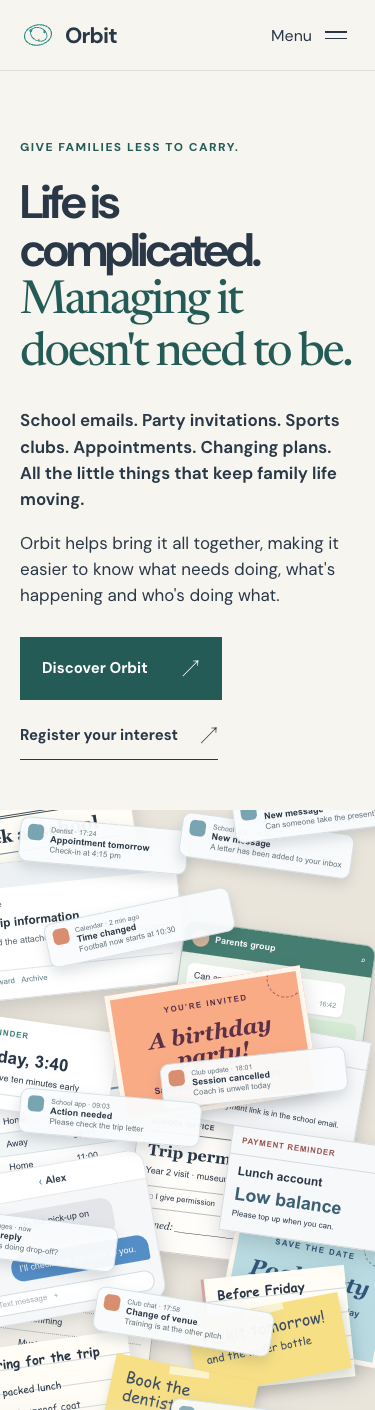
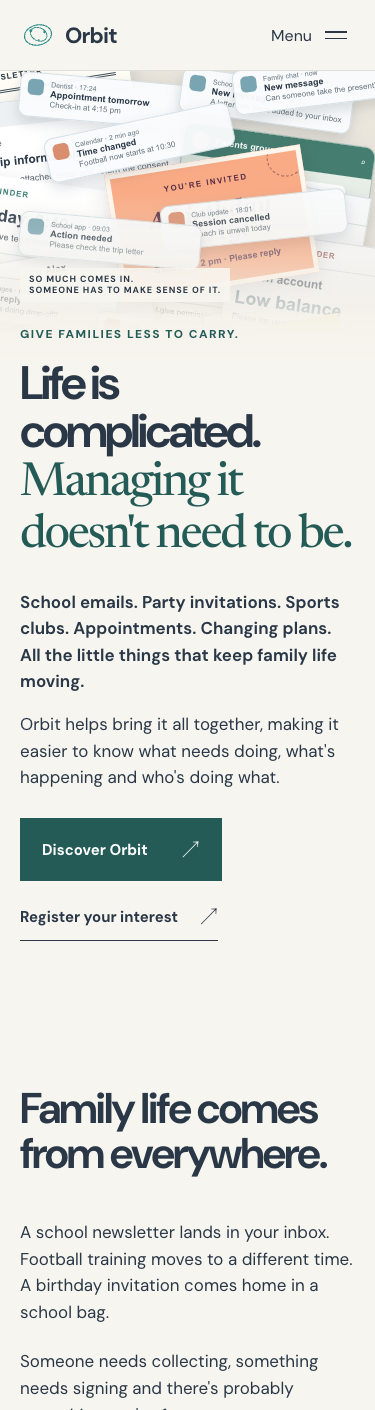
Direct hero from complexity to clarity

diff --git a/src/styles.css b/src/styles.css
@@ -25,3 +25,39 @@
 .incoming-hand{background:#f6df85;padding:12px 14px 17px;min-height:77px;box-shadow:2px 8px 12px #33433e30;font-family:'Comic Sans MS','Bradley Hand',cursive;color:#3c4d65}.incoming-hand:before{content:'';position:absolute;top:0;left:38%;width:40px;height:8px;background:#fff9;transform:rotate(-5deg)}.incoming-hand strong{font-size:16px;font-weight:500;line-height:1.1;margin-bottom:5px}.incoming-hand span{font-size:11px}.incoming-list{background:repeating-linear-gradient(#fffdf6 0 22px,#ced9db 23px,#fffdf6 24px);border-left:3px solid #d5a4a2;padding:9px 12px 12px;min-height:112px;font-family:'Comic Sans MS','Bradley Hand',cursive}.incoming-list strong{font-size:13px;margin-bottom:7px}.incoming-list span{font-size:10px;line-height:22px}.incoming-club{background:#f1f5f1;border:1px solid #bbcec1;padding:0 11px 11px}.club-head{margin:0 -11px 8px;background:#668f75;color:#fff;padding:5px 10px;font-weight:800;font-size:9px;letter-spacing:.1em}.incoming-club strong{font-size:12px;margin-bottom:4px}.incoming-club p{font-size:9px}.incoming-club small{display:block;border-top:1px solid #cddbd0;margin-top:8px;padding-top:5px;color:#73847a}
 .hero-art-caption{z-index:30;background:rgba(234,229,219,.92);padding:6px 9px;left:20px;bottom:17px}
 @media(max-width:600px){.hero-art{min-height:680px}.incoming{left:var(--mx);top:var(--my);width:var(--mw);transform:rotate(var(--mr))}.incoming.mobile-hide{display:none}.incoming-newsletter{min-height:165px}.incoming-newsletter strong{font-size:18px}.incoming-invite{min-height:129px}.incoming-invite strong{font-size:22px}.incoming-chat{font-size:9px}.incoming-notification{padding:6px 7px;min-height:44px}.hero-art-caption{z-index:30}}
+
+/* Complexity enters from the left and thins into the clear proposition. */
+@media(min-width:851px){
+  .hero{position:relative;isolation:isolate;grid-template-columns:1fr 1fr;min-height:730px}
+  .hero-copy{grid-column:2;padding:clamp(76px,9vw,136px) 0 90px 20px;z-index:2}
+  .hero-art{position:absolute;inset:0 auto 0 calc((min(100vw - 96px,var(--max)) - 100vw)/2);width:78%;min-height:0;margin:0;background:transparent;overflow:visible;pointer-events:none;z-index:1}
+  .hero-art:before{content:'';position:absolute;inset:0;background:radial-gradient(ellipse at 16% 44%,#eae5db 0%,rgba(234,229,219,.73) 38%,transparent 75%);pointer-events:none}
+  .hero-art:after{display:none}
+  .incoming-collage{overflow:visible;mask-image:linear-gradient(to right,#000 0%,#000 42%,rgba(0,0,0,.55) 53%,rgba(0,0,0,.1) 65%,transparent 72%)}
+  .incoming-taper{position:absolute;inset:0;pointer-events:none}
+  .incoming-taper-top{left:67%;top:3%;width:175px;transform:rotate(6deg);opacity:.85}
+  .incoming-taper-bottom{left:54%;top:86%;width:145px;transform:rotate(-8deg);opacity:.75}
+  .hero-art-caption{background:rgba(247,245,239,.9);left:18px;bottom:21px;z-index:20}
+}
+/* The same incoming material resolves vertically on narrow screens. */
+@media(max-width:850px){
+  .hero{display:flex;flex-direction:column;position:relative;isolation:isolate}
+  .hero-art{order:-1;position:relative;height:270px;min-height:0;margin-inline:-32px;background:transparent;overflow-x:clip;overflow-y:visible;pointer-events:none;z-index:1}
+  .hero-art:before{content:'';position:absolute;inset:-20px 0 -70px;background:linear-gradient(#eae5db 0%,rgba(234,229,219,.8) 58%,transparent 100%);pointer-events:none}
+  .hero-art:after{display:none}
+  .incoming-collage{height:390px;overflow:visible;mask-image:linear-gradient(to bottom,#000 0%,#000 34%,rgba(0,0,0,.7) 52%,transparent 77%)}
+  .incoming-taper{display:none}
+  .incoming{left:var(--mx);top:var(--my);width:var(--mw);transform:rotate(var(--mr))}
+  .incoming.mobile-hide{display:none}
+  .hero-copy{position:relative;z-index:2;padding:11px 0 60px}
+  .hero-copy:before{content:'';position:absolute;inset:0 -20px auto;height:230px;background:linear-gradient(to bottom,rgba(247,245,239,.45),var(--ivory) 82%);z-index:-1;pointer-events:none}
+  .hero-art-caption{background:rgba(247,245,239,.9);left:32px;bottom:9px;z-index:30}
+}
+@media(max-width:600px){
+  .hero-art{height:235px;min-height:0;margin-inline:-20px}
+  .incoming-collage{height:350px;mask-image:linear-gradient(to bottom,#000 0%,#000 34%,rgba(0,0,0,.65) 52%,transparent 75%)}
+  .hero-art-caption{left:20px;bottom:4px}
+  .hero-copy{padding-top:13px}
+  .hero-copy:before{height:205px}
+  .kicker{margin-bottom:18px}
+}

diff --git a/docs/creative-direction.md b/docs/creative-direction.md
@@ -1,7 +1,7 @@
 # Creative direction
 
-The approved concept is **The Weight of Responsibility**, with a visual move from complexity to clarity. The asymmetric homepage hero layers forty fictional incoming information fragments against a spacious headline. Email panes, newsletter pages, chat and text threads, invitations, posters, tables, forms, reminders and handwritten lists retain the visual cues of their sources. Uneven clusters carry the pressure, while older items are buried and newer messages crop at the edges. Later sections use calmer spacing, actual synthetic-demo product imagery, a simple responsibility diagram and the founder photograph.
+The approved concept is **The Weight of Responsibility**, with a visual move from complexity to clarity. On desktop, the asymmetric homepage hero begins with forty fictional incoming information fragments on the left. Their uneven layers thin towards the right, with two smaller reminders lingering in the surrounding whitespace; the headline, explanation and actions stay clear. Email panes, newsletter pages, chat and text threads, invitations, posters, tables, forms, reminders and handwritten lists retain the visual cues of their sources. Later sections use calmer spacing, actual synthetic-demo product imagery, a simple responsibility diagram and the founder photograph.
 
 The fragments are fictional examples built with HTML and CSS, not screenshots. The collage is decorative and hidden from the accessibility reading flow. Product captures are genuine tracked images from the Orbit demo and are labelled as such. The founder photograph retains its original framing and natural colour. There is no stock family photography, decorative motion or repeated feature-card grid.
 
-Mobile is intentionally recomposed: the headline and explanation come first, then a dense twenty-six-fragment field. In the founder teaser, the copy sits to the left of the unchanged photograph on desktop so Ben looks into it; mobile keeps copy before the photo in reading order. The page progressively opens into calmer sections. Keep navigation, copy and actions visually clear even where fragments overlap.
+Mobile is intentionally recomposed: a dense twenty-six-fragment field comes first, then fades into “Life is complicated.” The second headline phrase, explanation and actions have clear space below. In the founder teaser, the copy sits to the left of the unchanged photograph on desktop so Ben looks into it; mobile keeps copy before the photo in reading order. The page progressively opens into calmer sections. Keep navigation, copy and actions visually clear even where fragments overlap.

diff --git a/docs/review/README.md b/docs/review/README.md
@@ -9,6 +9,6 @@ Captured from the local static build in headless Chrome on 24 November 2026. Ful
 | How it works | [View](how-it-works-375.png) | [View](how-it-works-1440.png) |
 | Our story | [View](our-story-375.png) | [View](our-story-1440.png) |
 
-Focused refinement captures: [hero desktop](home-hero-1440.png), [hero mobile](home-hero-375.png), [founder desktop](home-founder-1440.png), and [founder mobile](home-founder-375.png). The homepage hero now layers forty source-specific information fragments on desktop and twenty-six on mobile. Ben looks into the copy from the right on desktop.
+Focused refinement captures: [hero desktop](home-hero-1440.png), [hero mobile](home-hero-375.png), [founder desktop](home-founder-1440.png), and [founder mobile](home-founder-375.png). The homepage hero moves from forty layered source formats on the left into clear copy on the right, with two smaller fragments lingering at the edge. Mobile places twenty-six fragments above the headline and lets them fade as the proposition resolves. Ben looks into the copy from the right on desktop.
 
 Additional measured layouts: 390, 768 and 1024 px. No horizontal overflow or broken images at any reviewed width. Mobile menu open/close and Escape dismissal passed. Local links and assets passed `npm run check` (256 checks). See `docs/publication-checklist.md` for remaining blockers.
